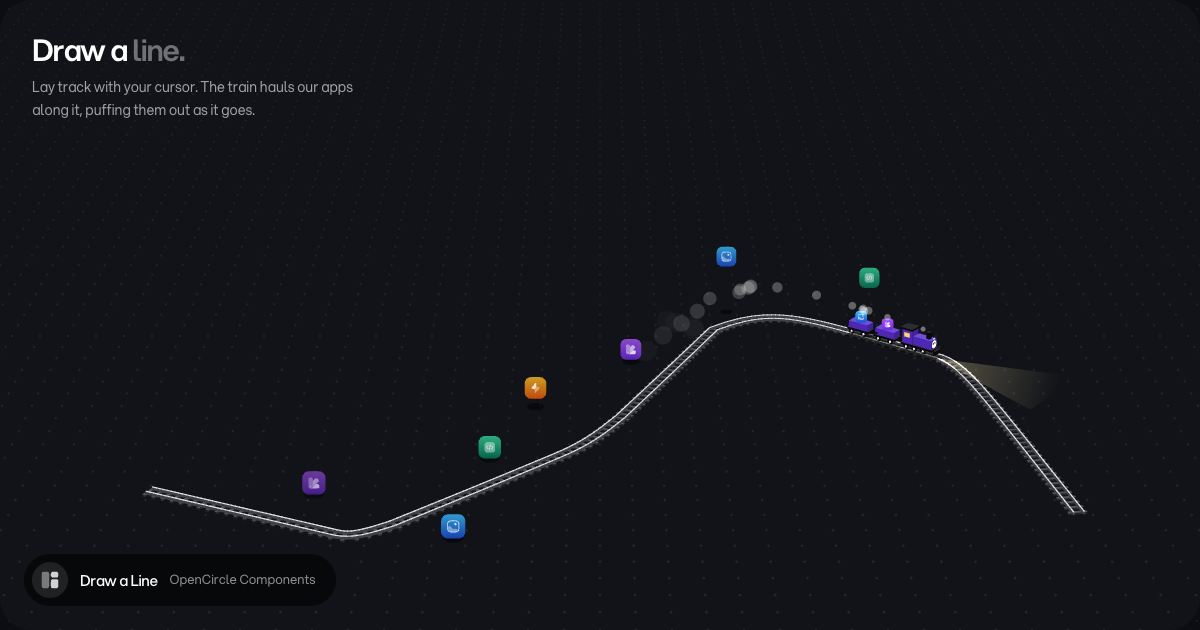
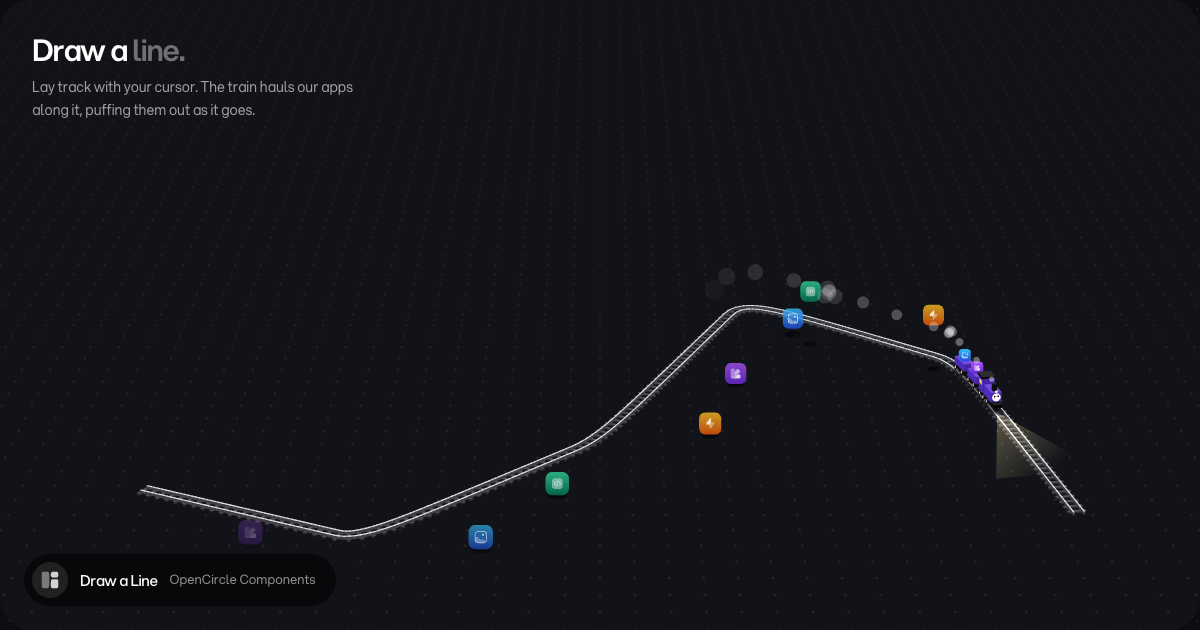
Enhance Chrome profile cleanup and update script documentation
- Improved the cleanup process for the temporary Chrome profile by adding a wait for Chrome to finish shutting down before removal.
- Added error handling for profile deletion to ensure safe cleanup.
- Updated the script documentation to reflect the correct file extension used in the generation process.

diff --git a/scripts/capture-component-og.ts b/scripts/capture-component-og.ts
@@ -120,9 +120,18 @@ async function main() {
     writeFileSync(manifest, next);
     console.log(`Updated shared/component-og.ts for ${slugs.length} component${slugs.length === 1 ? "" : "s"}.`);
   } finally {
-    chrome?.kill();
+    // Let Chrome finish shutting down before removing its profile; it keeps writing to it as it exits.
+    if (chrome && chrome.exitCode === null) {
+      const exited = new Promise((resolve) => chrome!.once("exit", resolve));
+      chrome.kill();
+      await Promise.race([exited, sleep(5000)]);
+    }
     await server.close();
-    rmSync(profile, { recursive: true, force: true });
+    try {
+      rmSync(profile, { recursive: true, force: true, maxRetries: 5, retryDelay: 200 });
+    } catch {
+      console.warn(`Couldn't remove the temporary Chrome profile at ${profile}; it's safe to delete.`);
+    }
   }
 }
 

diff --git a/shared/component-og.ts b/shared/component-og.ts
@@ -1,11 +1,11 @@
 /**
- * Generated by `corepack pnpm og:components` (scripts/capture-component-og.mjs); don't edit by hand.
+ * Generated by `corepack pnpm og:components` (scripts/capture-component-og.ts); don't edit by hand.
  * A short hash of each component's captured share image in public/og/components/<slug>.png.
  * A component missing here falls back to the text share card.
  */
 export const COMPONENT_SCREENSHOTS: Readonly<Record<string, string>> = {
-  "draw-a-line": "5f6f7c73f72e",
+  "draw-a-line": "2456b737927e",
   "icon-folder": "80795b77f245",
-  "scroll-deck": "ac2dc0bb8e66",
-  "split-footer": "ec3484432bb0",
+  "scroll-deck": "a7356e7e1290",
+  "split-footer": "1d918ab6b517",
 };
